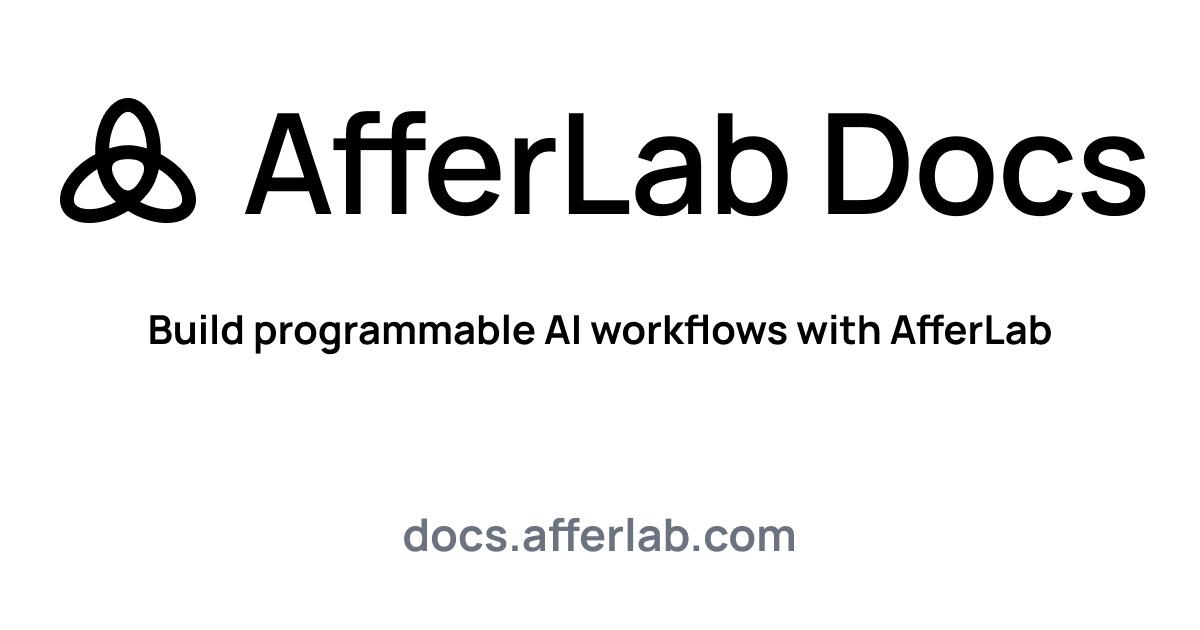
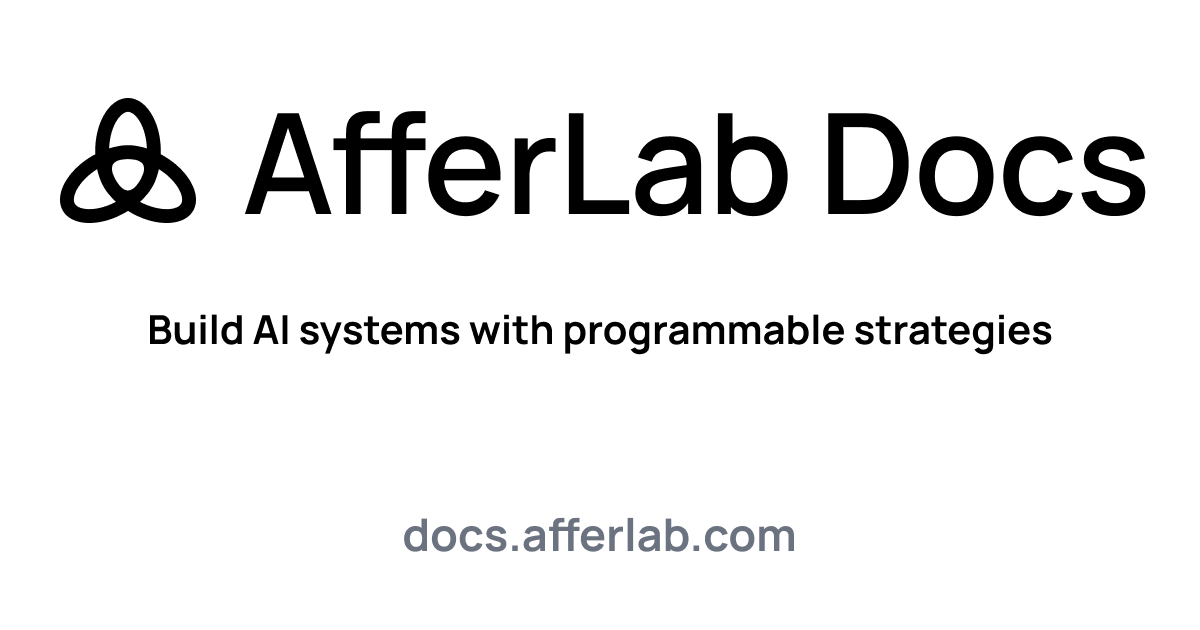
update og image

Changed region(s): [[0.1233, 0.4825, 0.8942, 0.573]]

diff --git a/docs/lib/layout.shared.tsx b/docs/lib/layout.shared.tsx
@@ -11,7 +11,7 @@ export const siteConfig = {
   siteName: 'AfferLab Docs',
   title: 'AfferLab Docs',
   description:
-    'Documentation for AfferLab, a strategy-programmable AI client.',
+    'Documentation for AfferLab, a local-first AI workspace where strategies define context, flow, and behavior.',
   githubUrl: `https://github.com/${gitConfig.user}/${gitConfig.repo}`,
   mainSiteUrl: 'https://afferlab.com',
   docsHref: '/',
